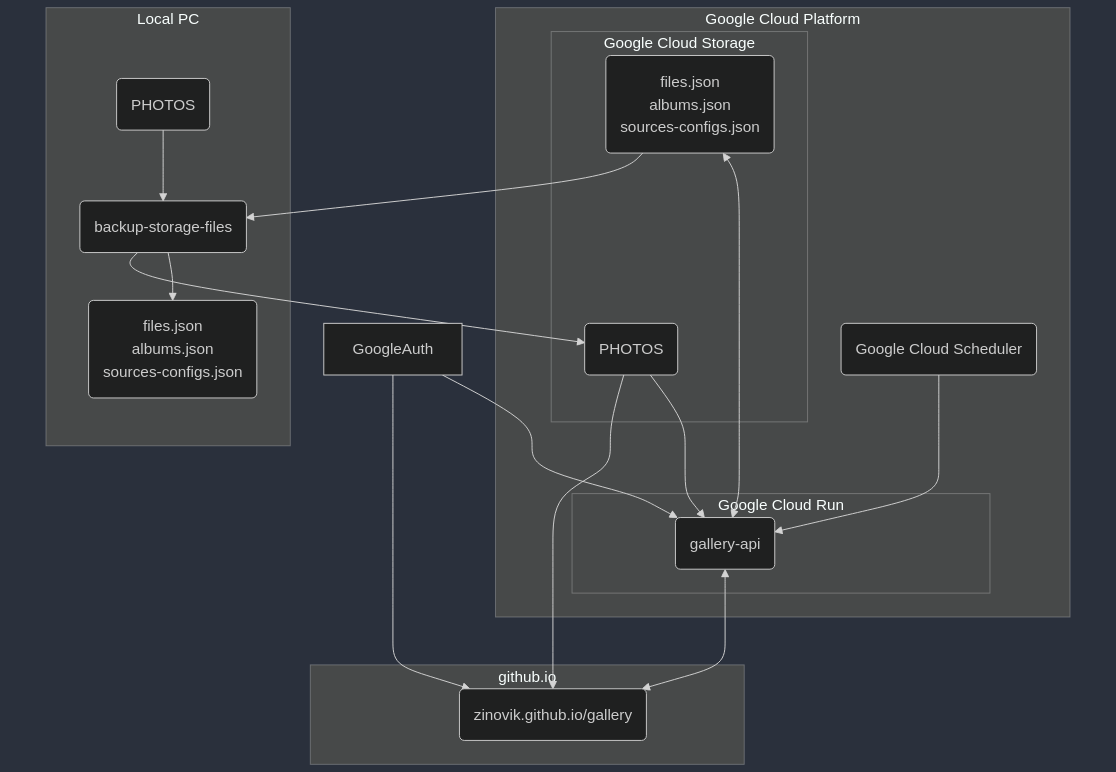
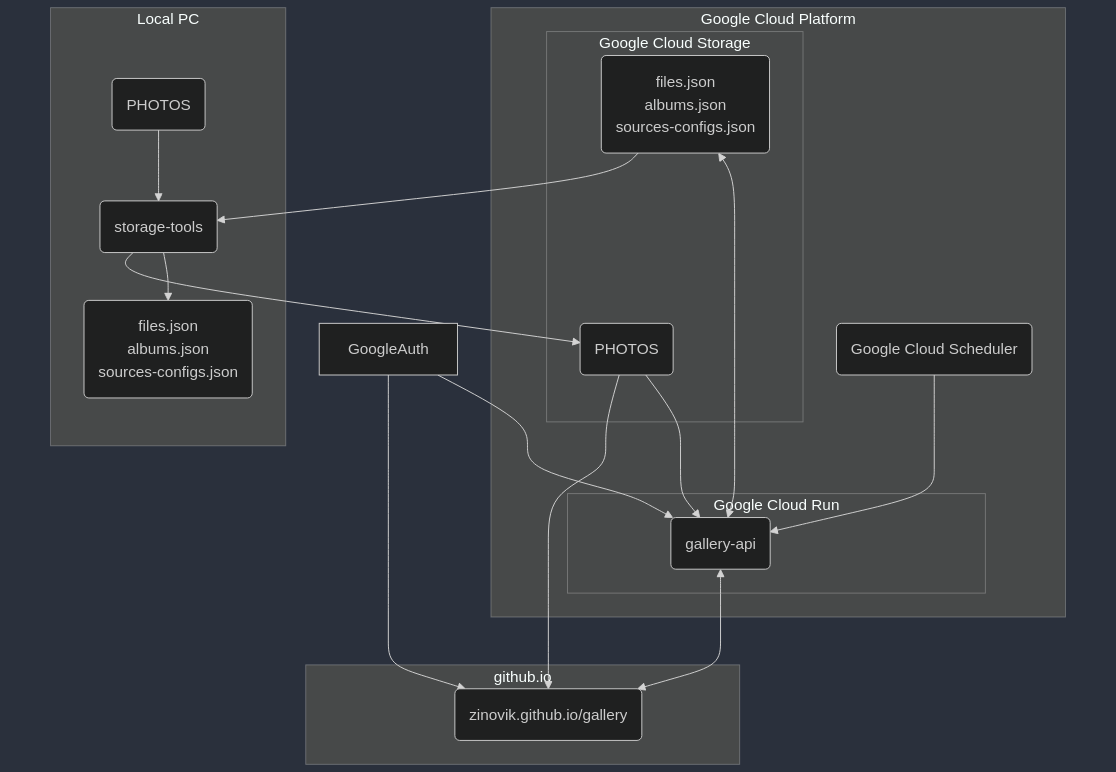
remove media url updater

diff --git a/src/components/AdminInfo.tsx b/src/components/AdminInfo.tsx
@@ -1,11 +1,6 @@
 import React, { useContext } from 'react';
 import { getUpdated, getUser, switchEditMode } from '../state';
-import {
-  apiAddNewFiles,
-  apiLogout,
-  apiMediaUrlsUpdater,
-  apiSend,
-} from '../services/api';
+import { apiAddNewFiles, apiLogout, apiSend } from '../services/api';
 import { ForceUpdateContext } from '../routers/MainRouter';
 import { getFilteredAlbumsWithFiles } from '../services';
 
@@ -85,16 +80,6 @@ export const AdminInfo = () => {
                   }}
                 >
                   switch edit mode
-                </button>
-              </div>
-              <div>
-                <button
-                  onClick={async () => {
-                    const isSuccess = await apiMediaUrlsUpdater();
-                    await update(isSuccess);
-                  }}
-                >
-                  media urls updater
                 </button>
               </div>
               <div>

diff --git a/src/services/api/index.ts b/src/services/api/index.ts
@@ -64,12 +64,6 @@ export const apiSend = async (): Promise<boolean> => {
   return false;
 };
 
-export const apiMediaUrlsUpdater = async (): Promise<boolean> => {
-  const [, status] = await request('/edit/media-urls-updater', 'POST');
-
-  return status < 400;
-};
-
 export const apiAddNewFiles = async (): Promise<boolean> => {
   const [, status] = await request('/edit/add-new-files', 'POST');
 

diff --git a/README.md b/README.md
@@ -8,7 +8,7 @@ flowchart TB
     end
 
     subgraph Local PC
-        Backup(backup-storage-files)
+        StorageTools(storage-tools)
         fasLocal(files.json<br/>albums.json<br/>sources-configs.json)
         PhotosLocal(PHOTOS)
     end
@@ -26,10 +26,10 @@ flowchart TB
 
     GoogleAuth
 
-    PhotosLocal --> Backup
-    fasStorage --> Backup
-    Backup --> PhotosStorage
-    Backup --> fasLocal
+    PhotosLocal --> StorageTools
+    fasStorage --> StorageTools
+    StorageTools --> PhotosStorage
+    StorageTools --> fasLocal
 
     GoogleAuth --> Gallery
     GoogleAuth --> GalleryApi
